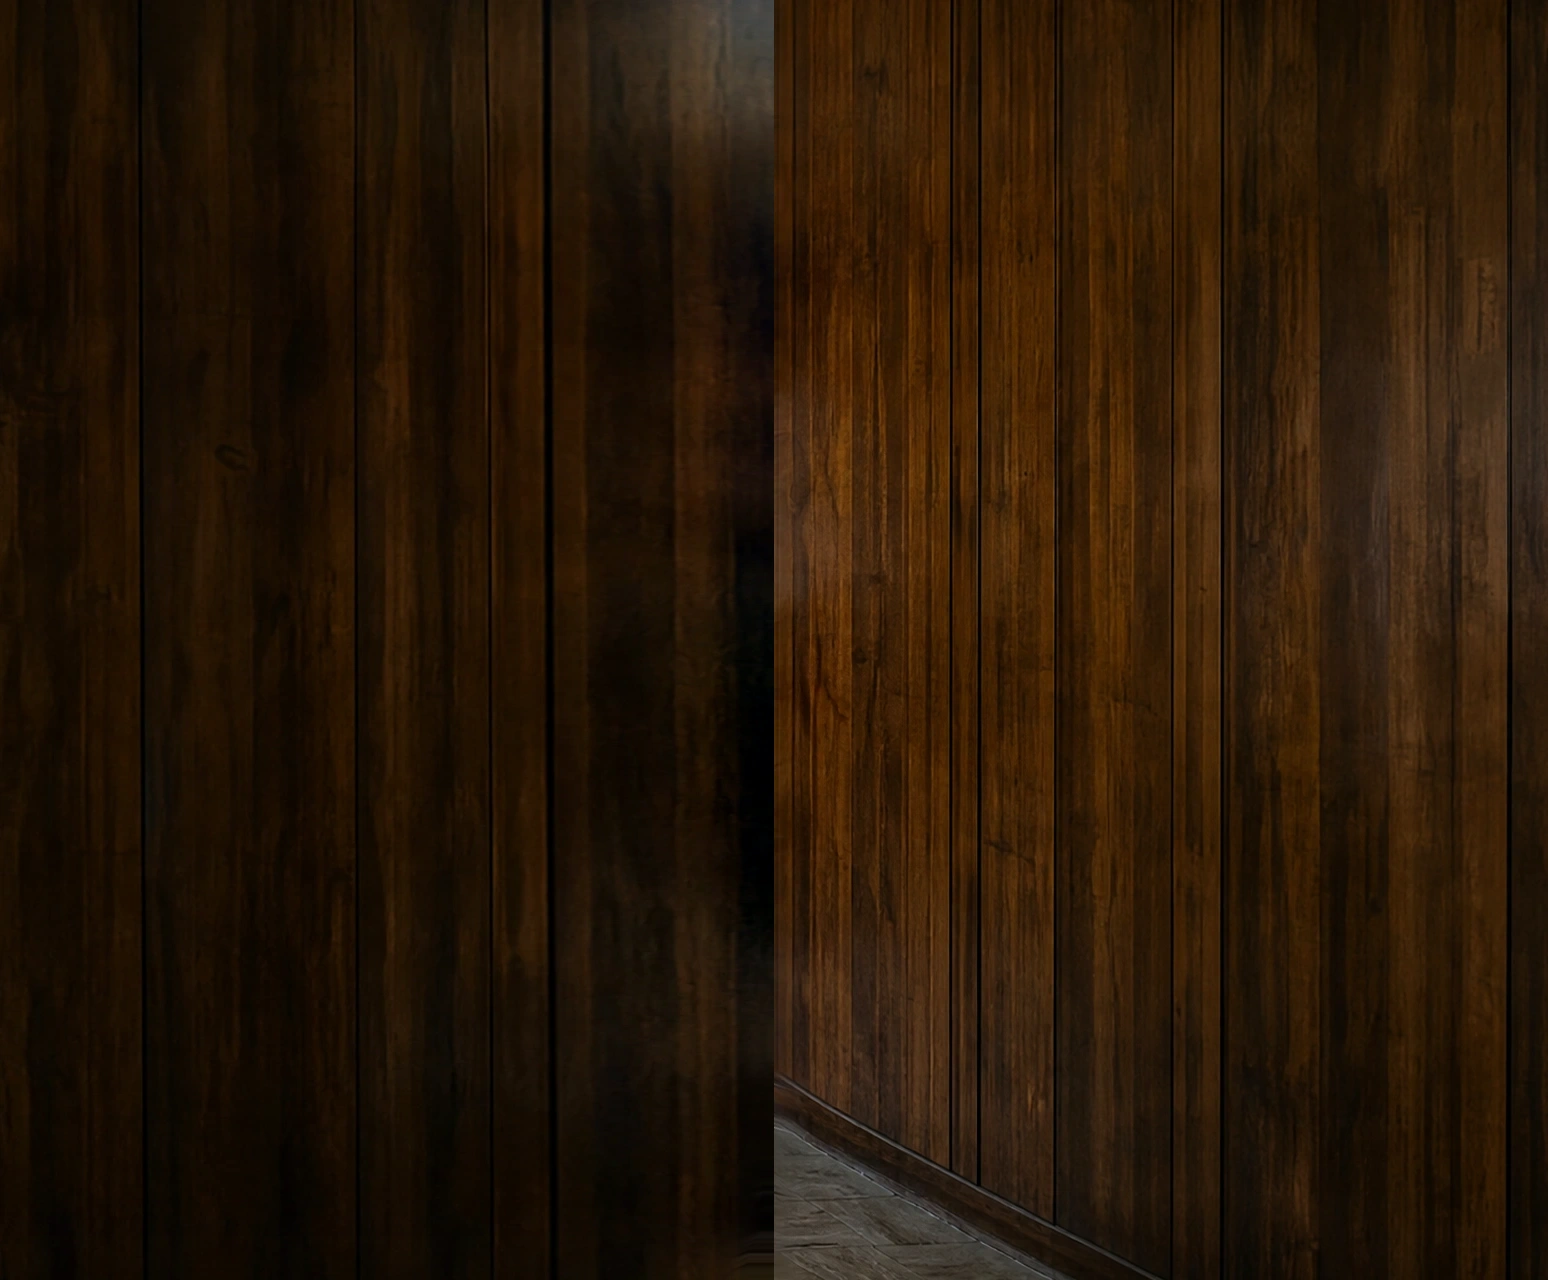
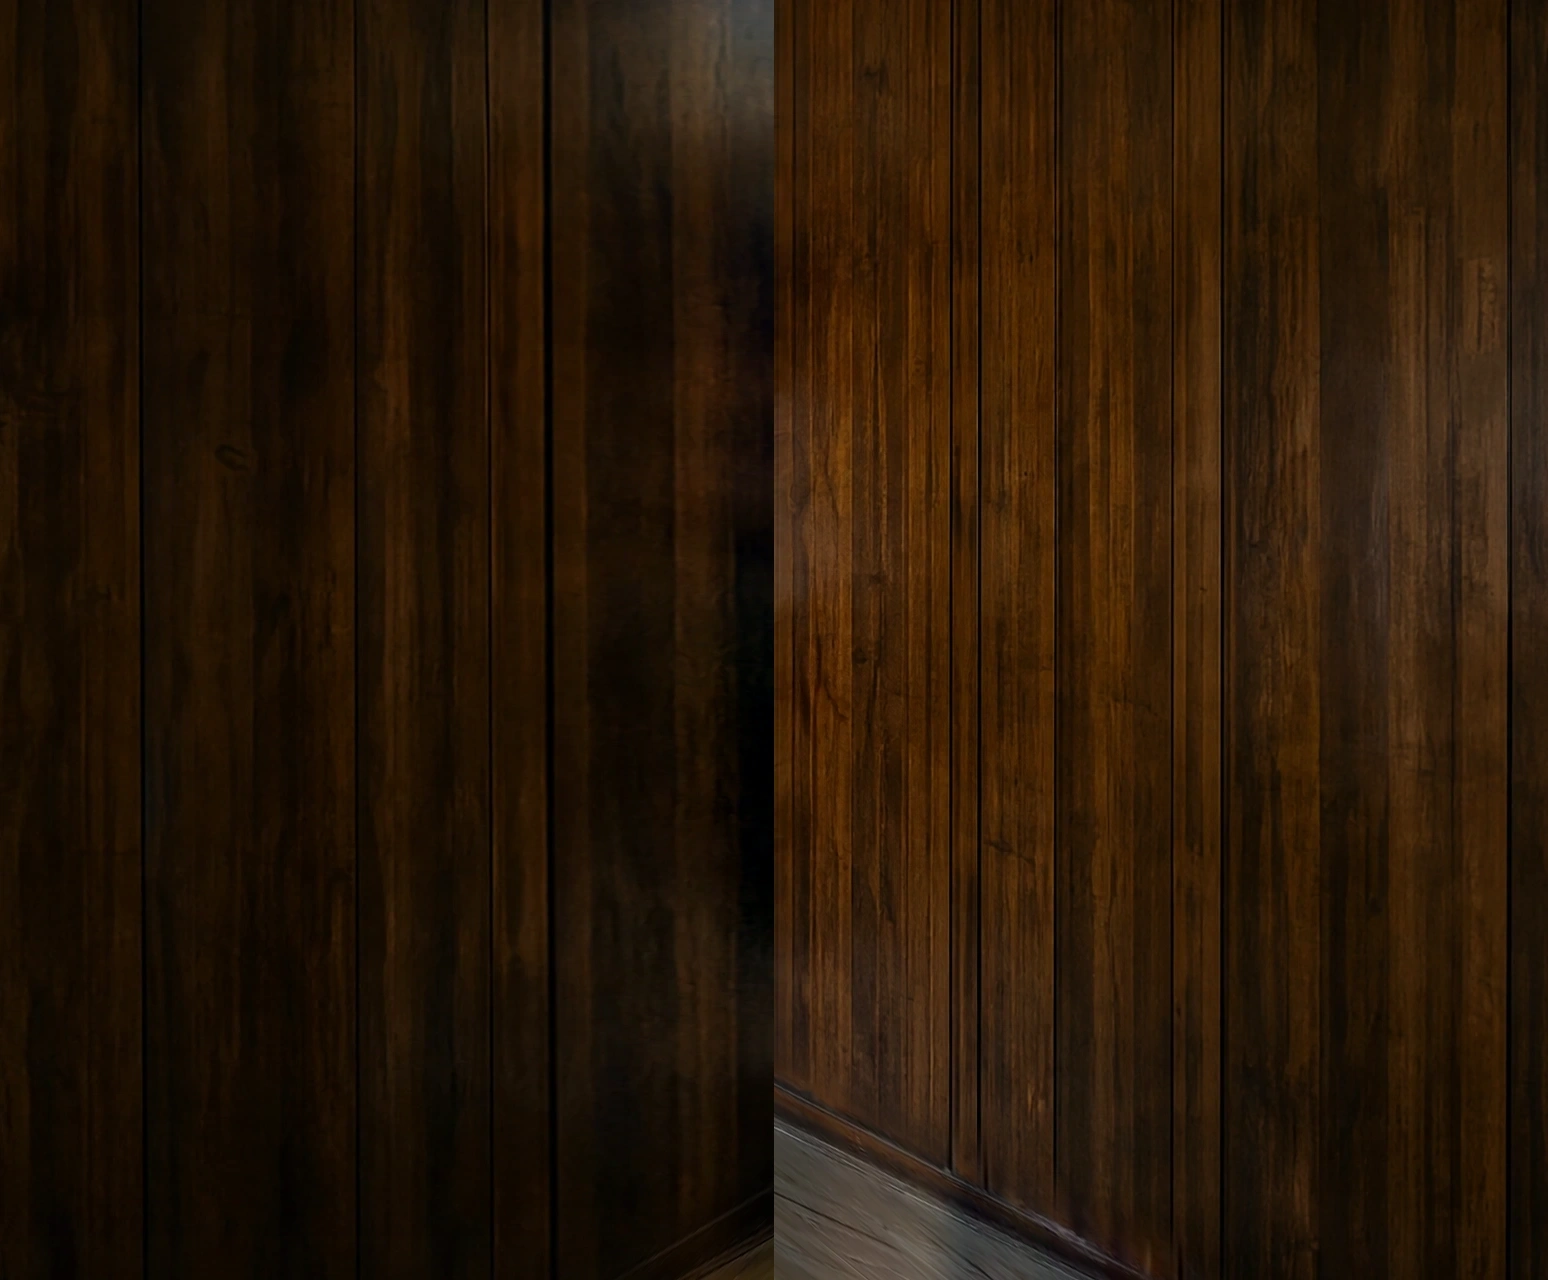
Continue Warroom baseboards through the panoramic joins

Changed region(s): [[0.5271, 0.8438, 0.7442, 1.0]]

diff --git a/src/ui/map/components/warroom/warroom-scene-plate.css b/src/ui/map/components/warroom/warroom-scene-plate.css
@@ -41,6 +41,7 @@
   }
 
   [data-soften-right-join="true"] > img {
-    mask-image: linear-gradient(to right, #000 99.7%, transparent 99.94%);
+    /* Start the fade inside the overlap so its antialiased edge stays opaque. */
+    mask-image: linear-gradient(to right, #000 99.77%, transparent 99.94%);
   }
 }

diff --git a/docs/PROJECT_LEDGER_KNOWLEDGE.md b/docs/PROJECT_LEDGER_KNOWLEDGE.md
@@ -6317,3 +6317,7 @@ A shared OOB lookup that keeps id/name/corps but drops `default_equipment_class`
 ## 2026-11-03 - Recovery state must not shadow a live operation
 
 A recovery-phase operation is a lifecycle tail, not a live commitment. When a brigade appears in both an earlier recovery operation and a later planning/execution operation, reader priority must select the live match; among live matches preserve local-array and state-wide strictCompare corps order rather than ranking execution above planning. A corps-local recovery fast path must not hide a foreign-corps live mission, but a corps-local live match stays authoritative. Recovery-only behavior remains defend and the 0.6 operations multiplier. Keep malformed/empty guards, manual/admission/objective/COHA/multiplier/force data unchanged. See [dated repair](PROJECT_LEDGER.md#2026-11-03---operation-recovery-shadowing-reader-repair).
+
+## 2026-11-08 - Warroom panorama joins
+
+**Trace structural lines before blending an art extension.** At the room edge, extend the original perspective of baseboards and floor boundaries before matching color and texture. A reflected image border can send a floor line back into the frame. Start a soft CSS fade inside the already opaque overlap so the browser's subpixel edge cannot expose the backdrop. Inspect native-resolution crops at the floor and wall in addition to testing overlay registration. Applied in the 2026-11-08 project ledger entry for restoring Warroom skirting and floor perspective.

diff --git a/docs/PROJECT_LEDGER.md b/docs/PROJECT_LEDGER.md
@@ -13921,3 +13921,10 @@ Reviewed both joins in all 15 scenes after player feedback. The five RS left win
 
 - Chromium verified eight hittable objects, the live map, the date board, and edge coverage in all 12 playable rooms at 1280 × 720 and 3426 × 1186. Direct previews covered all three 1991 plates at both sizes.
 - All 30 focused tests, typecheck, the production map build, the chunk cycle check, and the inventory of 15 bundled atlases passed. Evidence is under F:/AWWV-worktrees/.warroom-ultrawide/continuity-detail.
+
+## 2026-11-08 — Restore the perspective of Warroom skirting and floors (UI, ART)
+
+The ten RS and RBiH atlases now carry the original baseboard perspective through both lower joins and out of frame. Each faction uses fixed geometry across its five years. The RBiH right mask starts inside the decorative overlap so browser antialiasing cannot expose the background at the start of the fade.
+
+- The browser matrix passed for all 12 playable rooms at 1280 × 720 and 3426 × 1186. The three 1991 scene previews passed at both sizes. RS and RBiH 1994 also passed at 3440 × 1440. All 30 focused tests, the production map build, the inventory of 15 atlases and the chunk-cycle check passed.
+- Presentation only. No simulation or determinism effect. Before-and-after captures and validation logs are under F:/AWWV-worktrees/.warroom-ultrawide/baseboard-fix.
